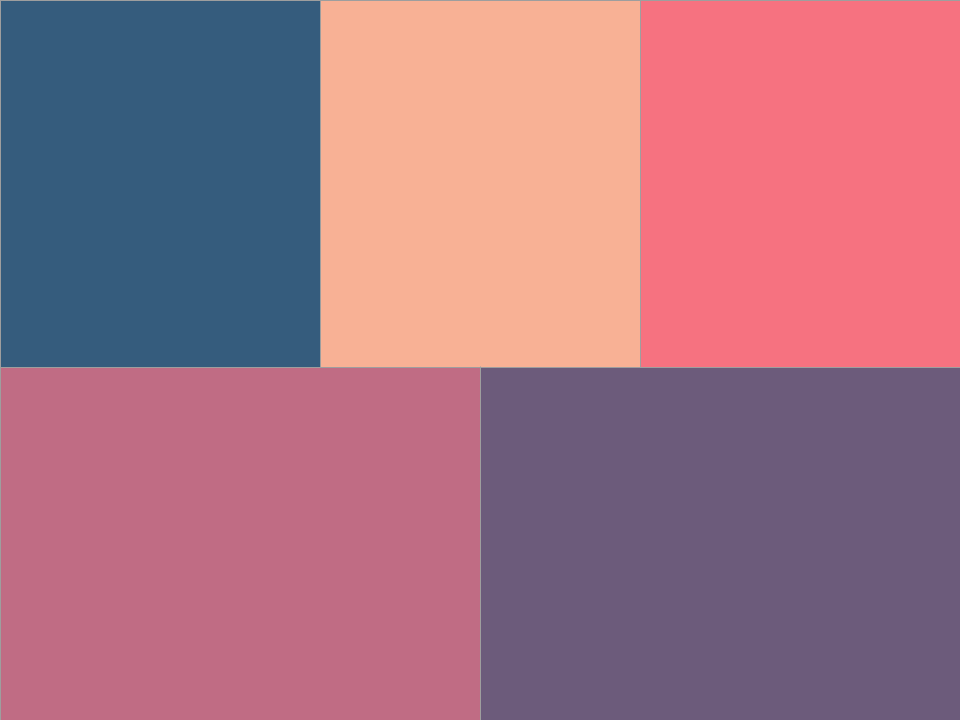
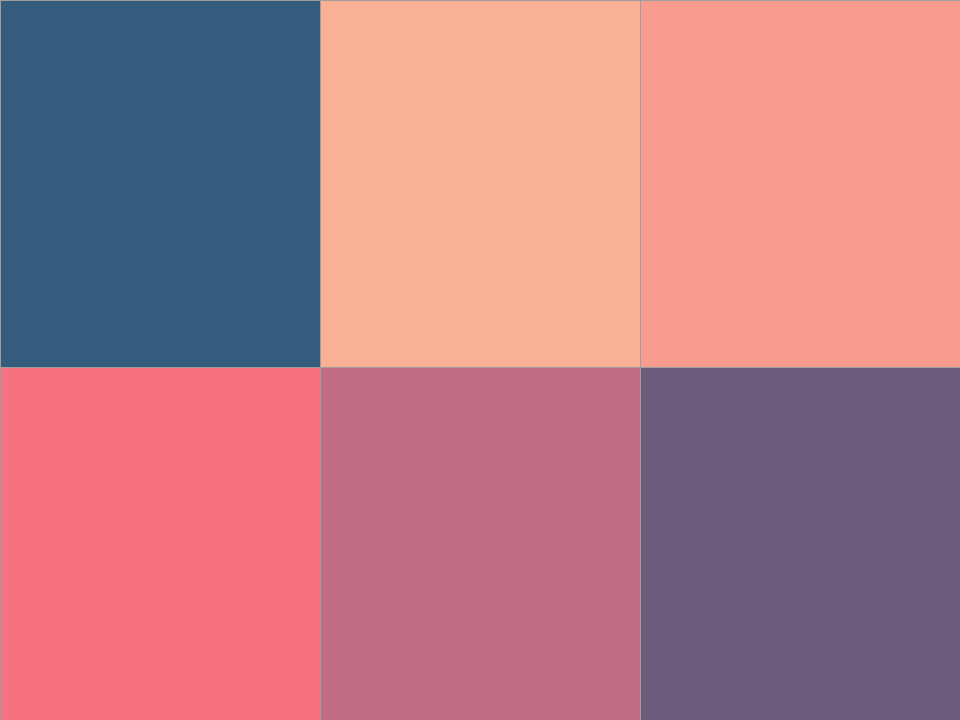
6-colour palettes

diff --git a/main.py b/main.py
@@ -7,34 +7,6 @@ import tkinter as tk
 from tkinter import ttk, filedialog
 from PIL import ImageTk, Image
 
-palette = {
-    "main background": "#66aff5",
-    "text button background": "#e5efde",
-    "selection frame background": "#c4dc34",
-    "primary button background": "#13ae4b",
-    "darker than primary button": "#0f893b",
-    
-}
-
-# TODO add and test these color palettes once setting in place
-''' #355C7D
-#F8B195
-#F67280
-#C06C84
-#6C5B7B
-'''
-
-'''
-#445A67
-#B4C9C7
-#57838D
-#F3BFB3
-#CCADB2
-'''
-
-
-
-
 # determining OS of user
 # ratio is to compensate for text size differential between Windows and macOS
 # every text attribute's font size should be preceded by int(RATIO * {font size})
@@ -54,6 +26,42 @@ else:
 root = tk.Tk()
 root.withdraw()
 current_window = None
+
+palette = {
+    "main background": "#66aff5",
+    "text button background": "#e5efde",
+    "darker than text button": "#9cb19c",
+    "selection frame background": "#c4dc34",
+    "primary button background": "#13ae4b",
+    "darker than primary button": "#0f893b"
+}
+
+'''
+"#66aff5"
+"#e5efde"
+"#9cb19c"
+"#c4dc34"
+"#13ae4b"
+"#0f893b"
+'''
+# TODO add and test these 2 color palettes once setting in place
+''' 
+"#355c7d"
+"#f8b195"
+"#f89c8f"
+"#f67280"
+"#c06c84"
+"#6c5b7b"
+'''
+
+'''
+"#445a67"
+"#b4c9c7"
+"#57838d"
+"#84969c"
+"#f3bfb3"
+"#ccadb2"
+'''
 
 names_of_files = []
 
@@ -169,7 +177,8 @@ def create_window(self, master, extra="", title=("", 0), return_value=False):
             activebackground=palette["darker than primary button"],
             command=lambda: main_screen.go_main_screen(self),
         )
-        self.return_button.place(relwidth=0.1, relheight=0.15, relx=0.025, rely=0.025)
+        self.return_button.place(
+            relwidth=0.1, relheight=0.15, relx=0.025, rely=0.025)
 
     # if the user kills the window via the window manager,
     # exit the application.
@@ -192,7 +201,8 @@ class main_screen:
             bg=palette["primary button background"],
             bd=5,
         )
-        self.quit_button.place(relwidth=0.1, relheight=0.15, relx=0.025, rely=0.025)
+        self.quit_button.place(
+            relwidth=0.1, relheight=0.15, relx=0.025, rely=0.025)
 
         self.settings_pic_button = tk.Button(
             self.master,
@@ -220,7 +230,7 @@ class main_screen:
                 do_not_show = False
             else:
                 do_not_show = "needs reset"
-        
+
         self.upload_frame = tk.Frame(
             self.master, bd=5, bg=palette["selection frame background"]
         )
@@ -237,7 +247,8 @@ class main_screen:
                 relwidth=0.675, relheight=0.15, relx=0.025, rely=0.475
             )
         else:
-            self.upload_frame.place(relwidth=0.3, relheight=0.15, relx=0.025, rely=0.25)
+            self.upload_frame.place(
+                relwidth=0.3, relheight=0.15, relx=0.025, rely=0.25)
 
             self.browse_frame.place(
                 relwidth=0.3, relheight=0.15, relx=0.025, rely=0.475
@@ -305,7 +316,8 @@ class main_screen:
         self.search_frame = tk.Frame(
             self.master, bd=5, bg=palette["selection frame background"]
         )
-        self.search_frame.place(relwidth=0.675, relheight=0.2, relx=0.025, rely=0.7)
+        self.search_frame.place(
+            relwidth=0.675, relheight=0.2, relx=0.025, rely=0.7)
 
         self.search_entry = PlaceholderEntry(
             self.search_frame,
@@ -431,12 +443,14 @@ class settings_screen:
             relx=0.1125, rely=0, relwidth=0.225, relheight=1, anchor="n"
         )
 
-        # TODO make all buttons have black border like text buttons in main_screen
+        # TODO make all buttons have black border like text buttons in main_screen, 
+        # TODO couldn't do that by just adding a bd value or by changing bg value
 
         self.first_theme_button = tk.Button(
             self.theme_frame
         )
-        self.first_theme_button.place(relwidth=0.225, relheight=0.9, relx=0.25, rely=0.05)
+        self.first_theme_button.place(
+            relwidth=0.225, relheight=0.9, relx=0.25, rely=0.05)
 
         self.first_theme_pic = fit_image(
             Image.open("./images/first_palette.png"), self.first_theme_button, full=True
@@ -446,7 +460,8 @@ class settings_screen:
         self.second_theme_button = tk.Button(
             self.theme_frame
         )
-        self.second_theme_button.place(relwidth=0.225, relheight=0.9, relx=0.5, rely=0.05)
+        self.second_theme_button.place(
+            relwidth=0.225, relheight=0.9, relx=0.5, rely=0.05)
 
         self.second_theme_pic = fit_image(
             Image.open("./images/second_palette.png"), self.second_theme_button, full=True
@@ -456,7 +471,8 @@ class settings_screen:
         self.third_theme_button = tk.Button(
             self.theme_frame
         )
-        self.third_theme_button.place(relwidth=0.225, relheight=0.9, relx=0.75, rely=0.05)
+        self.third_theme_button.place(
+            relwidth=0.225, relheight=0.9, relx=0.75, rely=0.05)
 
         self.third_theme_pic = fit_image(
             Image.open("./images/third_palette.png"), self.third_theme_button, full=True
@@ -481,13 +497,15 @@ class custom_screen:
             bd=5,
             command=lambda: custom_screen.retrieve_file(self, names_of_files),
         )
-        self.select_button.place(relx=0.15, relheight=0.15, relwidth=0.625, rely=0.025)
+        self.select_button.place(
+            relx=0.15, relheight=0.15, relwidth=0.625, rely=0.025)
 
         # buttons in top right corner
         self.action_frame = tk.Frame(
             self.master, bd=10, bg=palette["primary button background"]
         )
-        self.action_frame.place(relwidth=0.175, relheight=0.15, rely=0.025, relx=0.8)
+        self.action_frame.place(
+            relwidth=0.175, relheight=0.15, rely=0.025, relx=0.8)
 
         self.trashcan_pic_button = tk.Button(
             self.action_frame,
@@ -523,7 +541,8 @@ class custom_screen:
             bg=palette["text button background"],
             command=lambda: custom_screen.toggle_select_all(),
         )
-        self.toggle_select_button.place(relx=0, rely=0.67, relheight=0.33, relwidth=1)
+        self.toggle_select_button.place(
+            relx=0, rely=0.67, relheight=0.33, relwidth=1)
 
         # fitting the output
         self.preview_frame = tk.Frame(
@@ -613,8 +632,6 @@ class custom_screen:
         #     int(68 * RATIO),
         #     "bold"
 
-    # ! if amount >= 3 then this algorithm doesn't work, gets stuck in never-ending lines 539-540
-
     def trash_image_preview():
         pass
 
@@ -652,21 +669,21 @@ class custom_screen:
             activebackground=palette["darker than text button"],
             text="New Collection +",
             font=("Courier", int(54 * RATIO)),
-            #command=lambda:
+            # command=lambda:
         )
         self.new_collection_button.place(
             relwidth=1, relheight=1, relx=0, rely=0
         )
-        
+
     def toggle_select_all():
         pass
 
     # def set_background_uploaded():
     #     if win:
     #         ctypes.windll.user32.SystemParametersInfoW(
-    #             20, 0, TODO put file here, 0)
+    #             20, 0, put file here, 0)
     #     else:
-    #         app("Finder").desktop_picture.set(mactypes.File(TODO put file here))
+    #         app("Finder").desktop_picture.set(mactypes.File(put file here))
 
 
 class preset_screen:
@@ -678,7 +695,8 @@ class preset_screen:
 
 class search_screen:
     def __init__(self, master):
-        self.master = create_window(self, master, " - Search", return_value=True)
+        self.master = create_window(
+            self, master, " - Search", return_value=True)
 
 
 class manage_screen:
